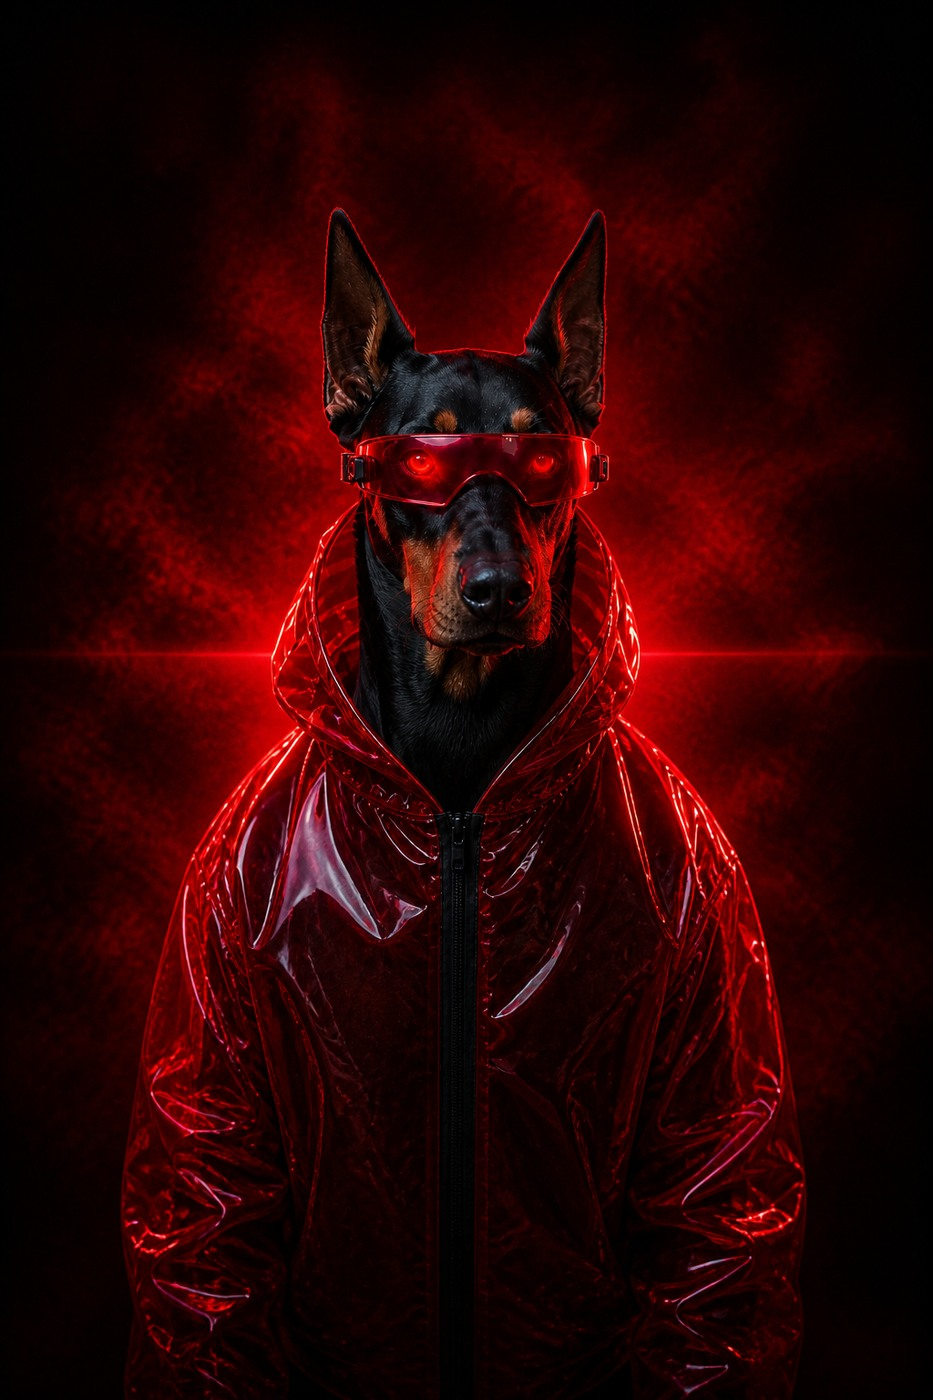
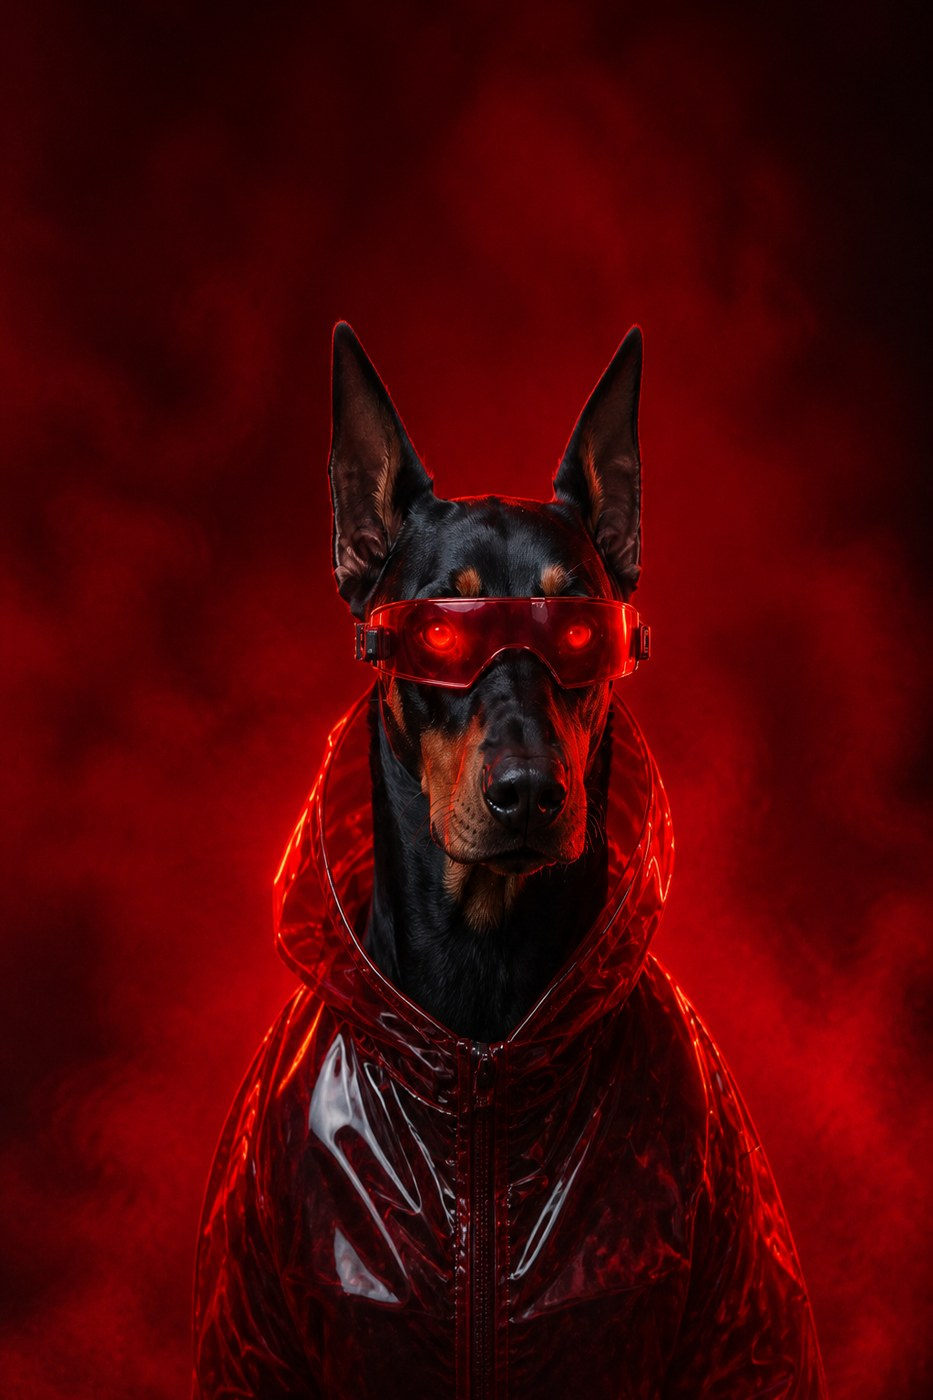
Match second mock: true chest-up framing for Code Red and Nova
Replace face-crop heroes with chest-up portraits (head, shoulders, vinyl jacket, headroom) and enlarge the atmospheric stage so the figure reads pulled-back, not snout-zoom.

diff --git a/styles.css b/styles.css
@@ -355,29 +355,30 @@ figure { margin: 0; }
 .hero-code-red .hero-stage {
   background: transparent;
   left: 50%;
-  top: 42%;
+  top: 46%;
   right: auto;
   bottom: auto;
-  width: min(68vh, 88vw);
+  /* Large atmospheric figure — chest-up fills the field without face zoom */
+  width: min(92svh, 100vw);
   height: auto;
   aspect-ratio: 3 / 4;
   transform: translate(-50%, -50%);
   max-width: none;
 }
 .hero-code-red .hero-render {
-  -webkit-mask-image: radial-gradient(120% 110% at 50% 42%, #000 58%, transparent 92%);
-          mask-image: radial-gradient(120% 110% at 50% 42%, #000 58%, transparent 92%);
+  -webkit-mask-image: radial-gradient(118% 108% at 50% 46%, #000 52%, transparent 90%);
+          mask-image: radial-gradient(118% 108% at 50% 46%, #000 52%, transparent 90%);
 }
 .hero-code-red .scanline { display: none; }
 .hero-code-red .hero-render > .render-vignette {
   display: block;
   background:
-    radial-gradient(120% 105% at 50% 42%, transparent 55%, rgba(40, 0, 0, 0.55) 100%),
-    linear-gradient(180deg, rgba(20,0,0,0.2) 0%, transparent 25%, transparent 60%, rgba(20,0,0,0.5) 100%);
+    radial-gradient(118% 105% at 50% 46%, transparent 52%, rgba(40, 0, 0, 0.5) 100%),
+    linear-gradient(180deg, rgba(20,0,0,0.18) 0%, transparent 22%, transparent 62%, rgba(20,0,0,0.48) 100%);
 }
 .hero-code-red .tt-frame {
   object-fit: cover;
-  object-position: center 12%;
+  object-position: center center;
   mix-blend-mode: normal;
 }
 .hero-code-red .hero-title .painted,
@@ -421,29 +422,29 @@ figure { margin: 0; }
 .hero-nova .hero-stage {
   background: transparent;
   left: 50%;
-  top: 42%;
+  top: 46%;
   right: auto;
   bottom: auto;
-  width: min(68vh, 88vw);
+  width: min(92svh, 100vw);
   height: auto;
   aspect-ratio: 3 / 4;
   transform: translate(-50%, -50%);
   max-width: none;
 }
 .hero-nova .hero-render {
-  -webkit-mask-image: radial-gradient(120% 110% at 50% 42%, #000 58%, transparent 92%);
-          mask-image: radial-gradient(120% 110% at 50% 42%, #000 58%, transparent 92%);
+  -webkit-mask-image: radial-gradient(118% 108% at 50% 46%, #000 52%, transparent 90%);
+          mask-image: radial-gradient(118% 108% at 50% 46%, #000 52%, transparent 90%);
 }
 .hero-nova .scanline { display: none; }
 .hero-nova .hero-render > .render-vignette {
   display: block;
   background:
-    radial-gradient(120% 105% at 50% 42%, transparent 55%, rgba(40, 0, 30, 0.55) 100%),
-    linear-gradient(180deg, rgba(20,0,15,0.2) 0%, transparent 25%, transparent 60%, rgba(20,0,15,0.5) 100%);
+    radial-gradient(118% 105% at 50% 46%, transparent 52%, rgba(40, 0, 30, 0.5) 100%),
+    linear-gradient(180deg, rgba(20,0,15,0.18) 0%, transparent 22%, transparent 62%, rgba(20,0,15,0.48) 100%);
 }
 .hero-nova .tt-frame {
   object-fit: cover;
-  object-position: center 12%;
+  object-position: center center;
   mix-blend-mode: normal;
 }
 .hero-nova .hero-title .painted,
